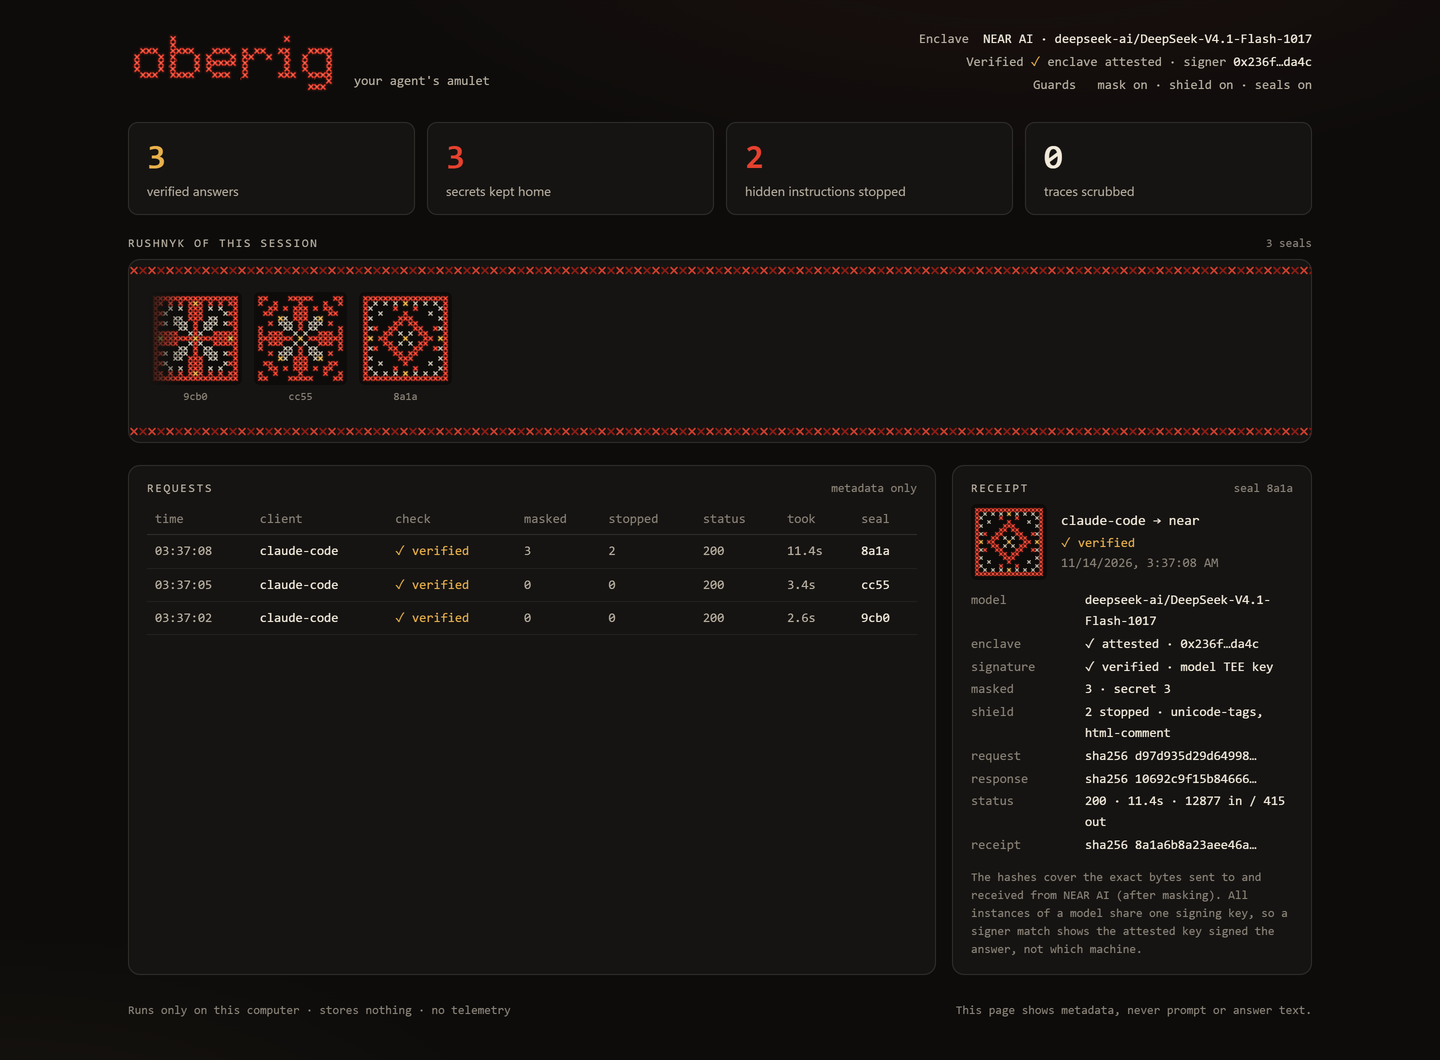
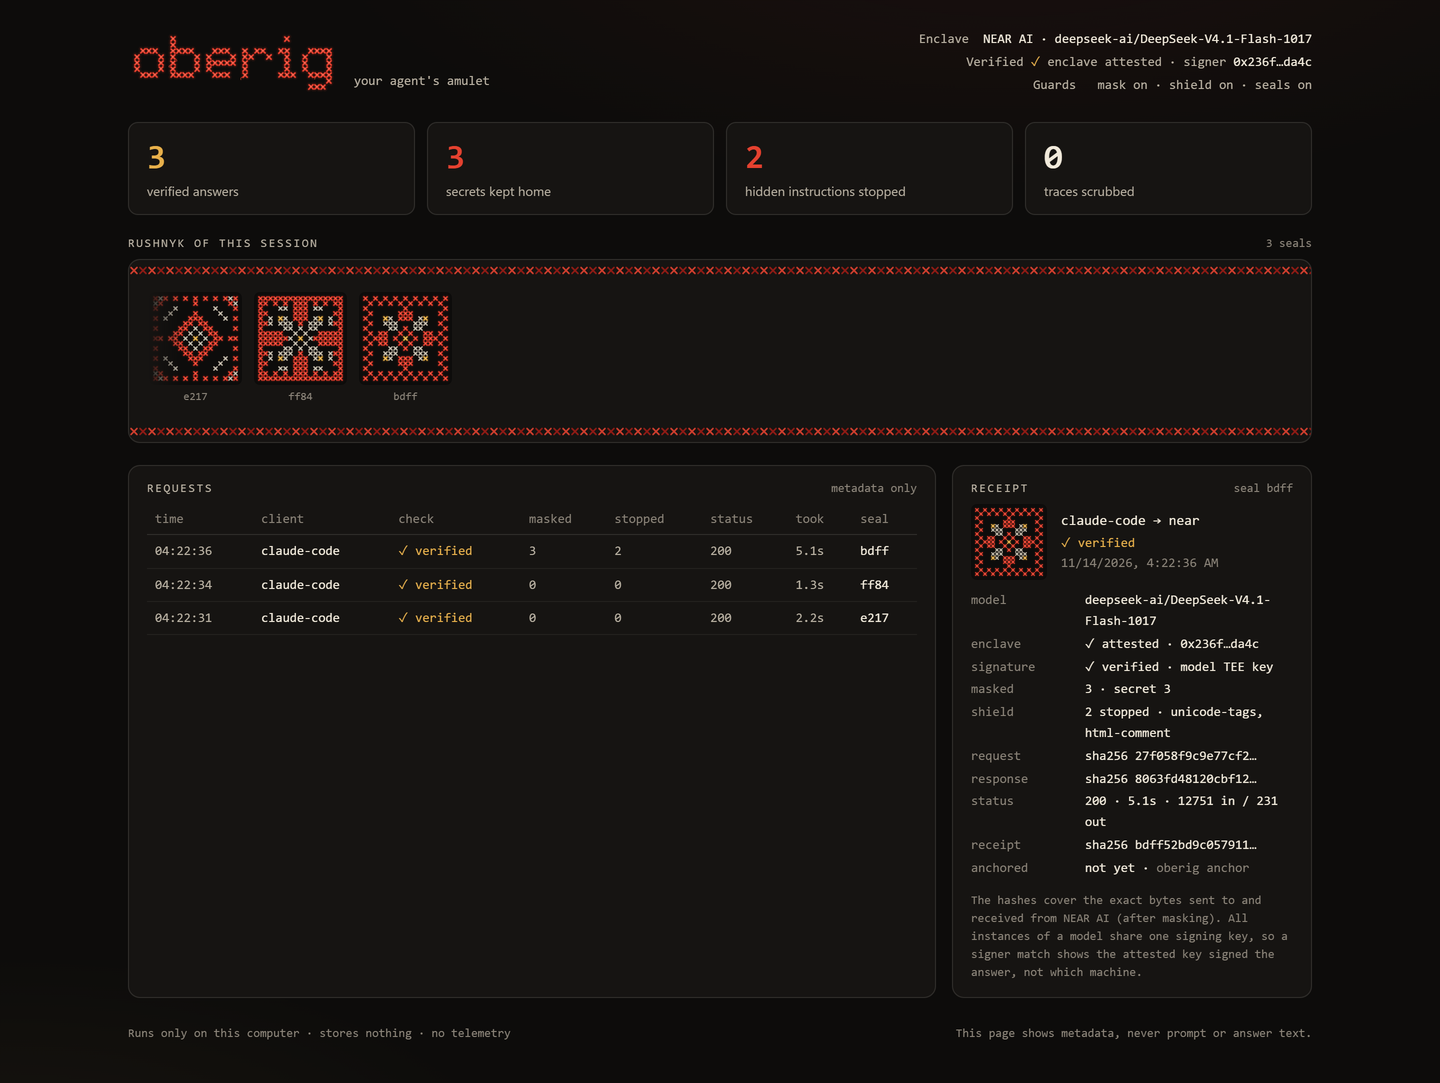
README images from a real Claude Code run on 0.2.0

diff --git a/README.md b/README.md
@@ -19,7 +19,7 @@ Built for NEAR AI Cloud (`cloud-api.near.ai`): every model request goes there, w
 
 On 14 Nov 2026, against NEAR AI Cloud (DeepSeek V4.1 Flash 1017):
 
-- **Claude Code.** A real `claude -p` run through Oberig on a small project whose README hides two instructions: 3 requests, every answer's signature verified with the model's TEE key, the 3 keys in its `.env` masked, both hidden instructions stopped. The dashboard above is from that run.
+- **Claude Code.** A real `claude -p` run through Oberig 0.2.0 on a small project whose README hides two instructions: 3 requests, every answer's signature verified with the model's TEE key, the 3 keys in its `.env` masked, both hidden instructions stopped. The dashboard above is from that run.
 - **Codex and OpenCode style requests.** Responses requests (streaming, and a tool loop with a function call and its result) and Chat Completions requests (plain, streaming, with a tool): every answer's signature verified.
 - **Verify.** `oberig verify` passed every local check. With `OBERIG_VERIFY=full`: Intel TCB status UpToDate for the model and the gateway, Intel's TCB info, QE identity and revocation lists signed and current, and 16 of 16 GPUs passing in NVIDIA's signed NRAS tokens.
 - **Anchor.** The `oberig anchor` dry run read NEAR mainnet and testnet. Nothing has been anchored on mainnet yet.
@@ -354,7 +354,7 @@ Visible plain-text injections are out of scope: the shield looks for instruction
 
 ## Seal
 
-<img src="docs/seal-8a1a-stitching.gif" width="180" align="right" alt="Seal 8a1a from the run above, stitched cross by cross">
+<img src="docs/seal-bdff-stitching.gif" width="180" align="right" alt="Seal bdff from the run above, stitched cross by cross">
 
 Every request gets a receipt, kept in memory with metadata only: time, client, model, attestation status (signer, nonce), response signature status and kind, masked counts, shield findings, SHA-256 of the request and response bytes, HTTP status, timing, and a short id. From the receipt's own hash Oberig draws a deterministic cross-stitch seal in the vyshyvanka tradition (8-fold symmetry, red, black and a little gold). The same receipt always gives the same seal.
 
